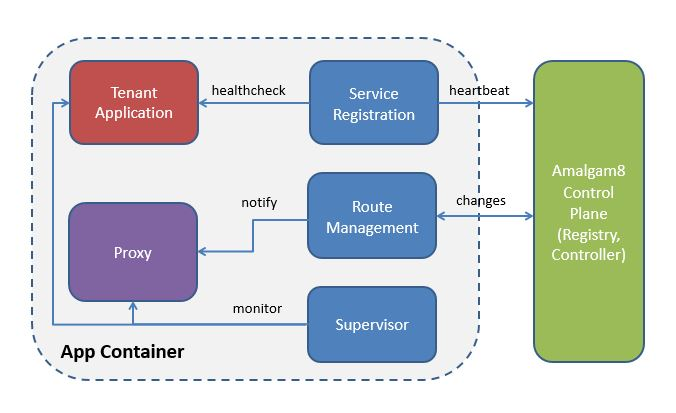
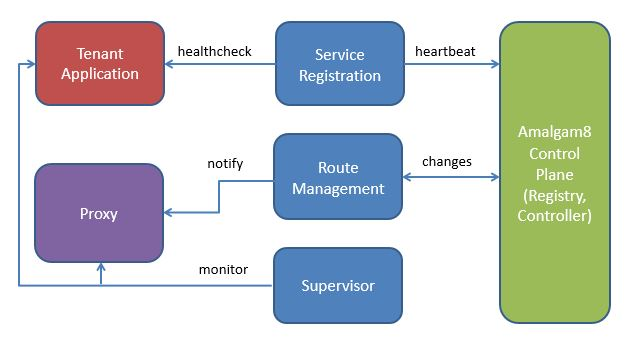
more overview doc

Changed region(s): [[0.0303, 0.0585, 1.0, 0.9649], [0.697, 0.7895, 0.7273, 0.848]]

diff --git a/overview.md b/overview.md
@@ -44,7 +44,7 @@ usually running in sidecars of the microservices.
 
 ## Tenant Library
 
-Almagam8 includes a library containing a very flexible sidecar architecture that can be configured and used by tenants in a number of ways.
+Almagam8 includes a library containing a very flexible component architecture that can be configured and used by tenants in a number of ways.
 
 ![sidecar architecture](https://github.com/amalgam8/amalgam8.github.io/blob/master/images/sidecar.jpg)
 
@@ -55,10 +55,14 @@ Almagam8 includes a library containing a very flexible sidecar architecture that
 
 Depending on the application, some or all of these components may be used. 
 For example, a microservice that requires registration, makes outgoing calls, and requires app supervision might use all of them
-in a single container as shown in the diagram. In Kubernetes, however, the app supervision would probabaly not be used. The app would instead
+in a single container:
+
+![sidecar containers](https://github.com/amalgam8/amalgam8.github.io/blob/master/images/sidecar-containers.jpg)
+
+In Kubernetes, however, the app supervision would probabaly not be used as shown in diagram (a). The app would instead
 be likely running in its own separate container of a pod. For leaf microservices (i.e., ones that make no outgoing calls), the proxy and
-route management components would not be needed. Service Registration would not be needed for services in a runtime that 
-supports auto registration (e.g., amalgam8 registry adapter for kubernetes).
+route management components would not be needed (b). Service Registration would not be needed for services in a runtime that 
+supports auto registration (c), for example, when using the amalgam8 registry adapter for Kubernetes (see below).
 
 Since most microservices run in some kind of container environment, Amalgam8 provides convenient Docker images that can be used
 as microservice application base images or simply to access one or more of the components. 
@@ -97,8 +101,8 @@ registry by the kubernetes runtime, and then automatcally mirrored in the A8 reg
 
 The Amalgam8 registry is very flexible in this regard. Similar adapter plugins can be added to support other runtime environments
 that already manage service registrations.
-For example, a docker environment with Weave Flux allows services to defined using the fluxctl command, endpoints of which are
-then automatically tracked and reflected in its registry, Etcd.
+For example, a Docker environment with Weave Flux allows services to be defined using the fluxctl command, endpoints of which are
+then automatically tracked and reflected in its Etcd registry.
 
 Integration with Amalgam8 could be done using exactly the same adapter pattern as in Kubernetes, only in this case adapting
 the WeaveFlux service information in Etcd, something like this:
